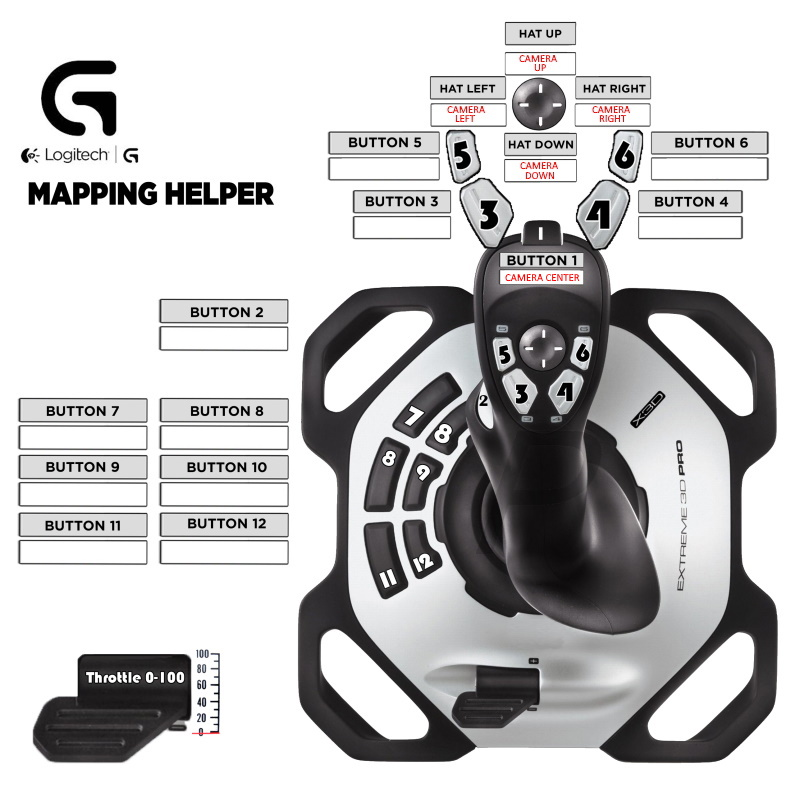
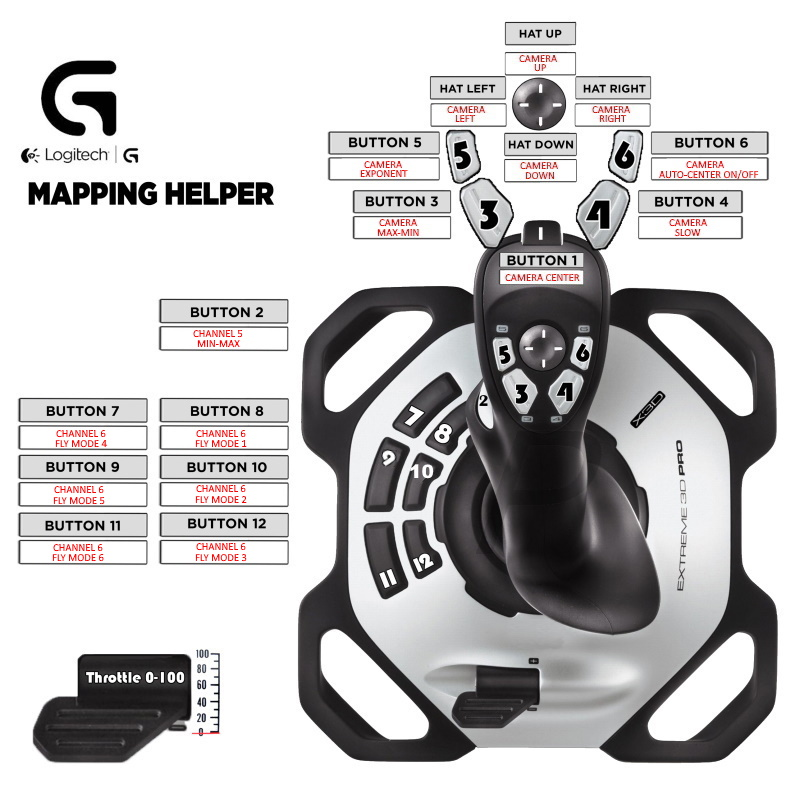
Change of buttons assignment

diff --git a/Bluetooth/OpenAVRcBT_JoystickReader/RCState.cpp b/Bluetooth/OpenAVRcBT_JoystickReader/RCState.cpp
@@ -69,12 +69,16 @@ void RCState::button_changed(uint8_t but_id) {
 	if ((button_state_change_time[but_id] > 100) && (button_state[but_id] == false)) {
 		switch (but_id) {
   		case 2: channel5 = !channel5;break;
-  		case 7: flight_mode_code = 1;flight_mode = map(flight_mode_code, 0, 7, MIN_VALUE, MAX_VALUE); break;
-  		case 8: flight_mode_code = 2;flight_mode = map(flight_mode_code, 0, 7, MIN_VALUE, MAX_VALUE); break;
-  		case 9:	flight_mode_code = 3;flight_mode = map(flight_mode_code, 0, 7, MIN_VALUE, MAX_VALUE); break;
-  		case 10:flight_mode_code = 4;flight_mode = map(flight_mode_code, 0, 7, MIN_VALUE, MAX_VALUE); break;
-  		case 11:flight_mode_code = 5;flight_mode = map(flight_mode_code, 0, 7, MIN_VALUE, MAX_VALUE); break;
-  		case 12:flight_mode_code = 6;flight_mode = map(flight_mode_code, 0, 7, MIN_VALUE, MAX_VALUE); break;
+     
+  		//channel 6
+    	case 8: flight_mode_code = 1;flight_mode = map(flight_mode_code, 0, 7, MIN_VALUE, MAX_VALUE); break;
+  		case 10: flight_mode_code = 2;flight_mode = map(flight_mode_code, 0, 7, MIN_VALUE, MAX_VALUE); break;
+  		case 12: flight_mode_code = 3;flight_mode = map(flight_mode_code, 0, 7, MIN_VALUE, MAX_VALUE); break;
+  		case 7: flight_mode_code = 4;flight_mode = map(flight_mode_code, 0, 7, MIN_VALUE, MAX_VALUE); break;
+  		case 9: flight_mode_code = 5;flight_mode = map(flight_mode_code, 0, 7, MIN_VALUE, MAX_VALUE); break;
+  		case 11: flight_mode_code = 6;flight_mode = map(flight_mode_code, 0, 7, MIN_VALUE, MAX_VALUE); break;
+
+      //channel 7&8
   		case 1: camera_yaw = CENTER_VALUE;camera_pitch = CENTER_VALUE;break;
   		case 6: auto_center = !auto_center;break;
   		case 5: camera_mode = CAMERA_MODES::exponent; break;//0
